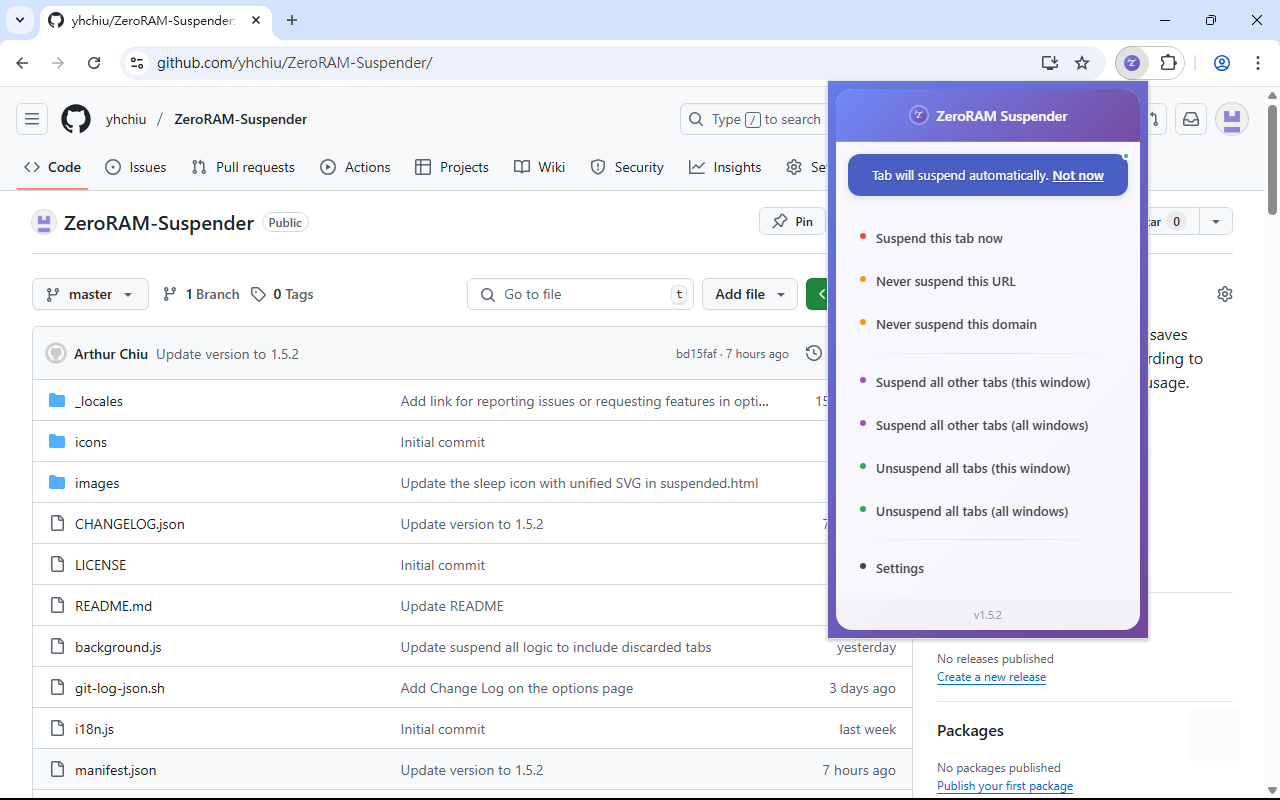
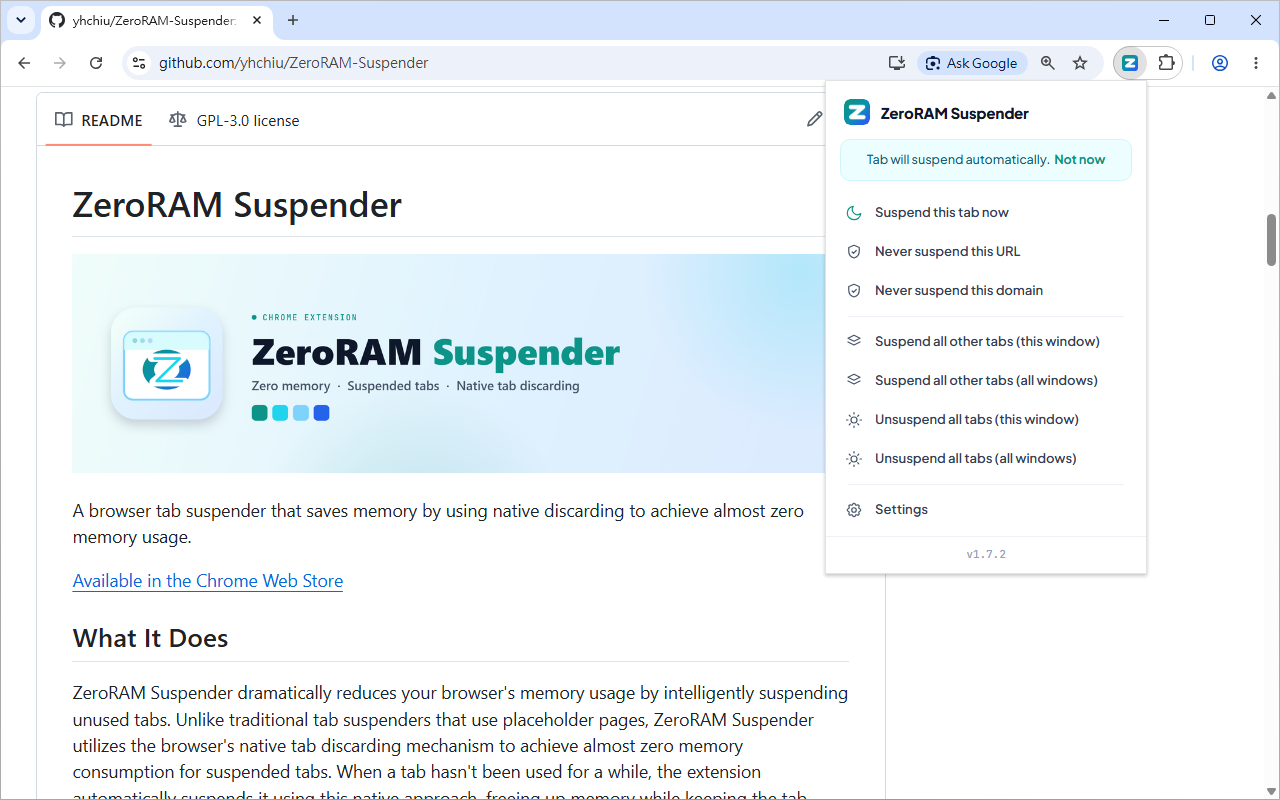
docs: update screenshots

diff --git a/README.md b/README.md
@@ -30,8 +30,8 @@ ZeroRAM Suspender dramatically reduces your browser's memory usage by intelligen
 ### Suspended Page
 ![Suspended Page](screenshots/02-suspended-page.png)
 
-### Whitelist Management
-![Whitelist Management](screenshots/03-whitelist.png)
+### Basic Settings
+![Basic Settings](screenshots/03-basic_settings.png)
 
 ### Tab Migration
 ![Tab Migration](screenshots/04-tab-migration.png)
